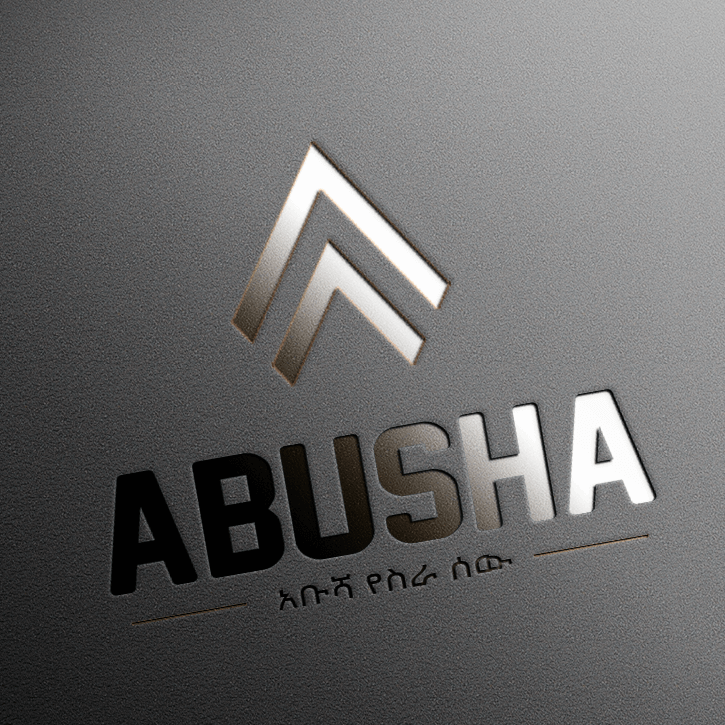
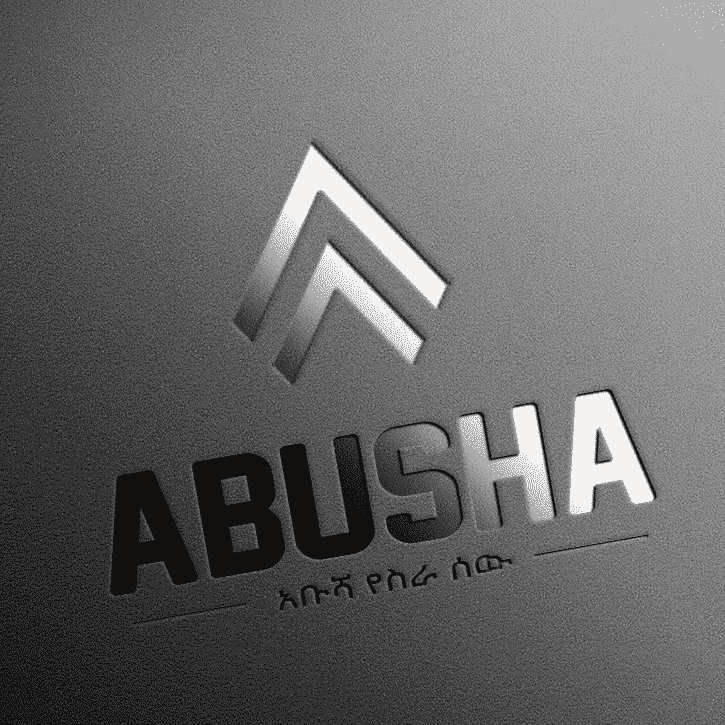
image compresion and some code fix

diff --git a/index.html b/index.html
@@ -165,7 +165,7 @@
                             <img class="img-fluid rounded" src="img/about-1.png" alt="">
                         </div>
                         <div class="col-sm-6">
-                            <img class="img-fluid rounded" src="img/about-2.png" alt="">
+                            <img class="img-fluid rounded" src="img/about-2.jpg" alt="">
                         </div>
                     </div>
                     <div class="d-flex align-items-center mb-3">
@@ -216,10 +216,10 @@
                             <div class="skill mb-4">
                                 <div class="d-flex justify-content-between">
                                     <h6 class="font-weight-bold">Adobe Premiere pro</h6>
-                                    <h6 class="font-weight-bold">80%</h6>
+                                    <h6 class="font-weight-bold">70%</h6>
                                 </div>
                                 <div class="progress">
-                                    <div class="progress-bar bg-danger" role="progressbar" aria-valuenow="80"
+                                    <div class="progress-bar bg-danger" role="progressbar" aria-valuenow="70"
                                         aria-valuemin="0" aria-valuemax="100"></div>
                                 </div>
                             </div>
